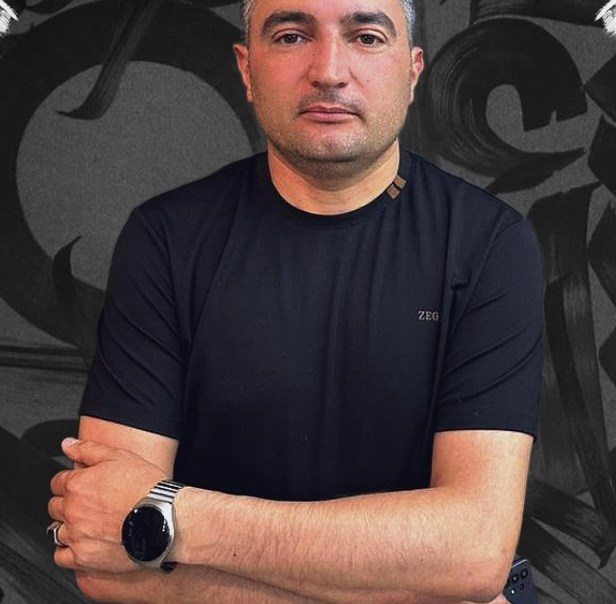
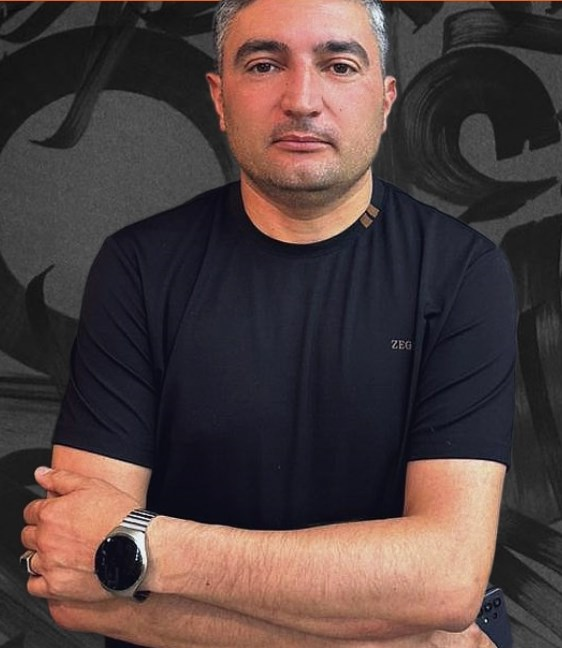
feat: VK photo pass — real gallery, barber duo, headline font, hero revert

diff --git a/design-c-dvizhenie/index.html b/design-c-dvizhenie/index.html
@@ -9,11 +9,11 @@
   <meta property="og:title" content="ЛЕЗВИЕ — Барбершоп в Ижевске">
   <meta property="og:description" content="Точность. Стиль. Характер. Запишись онлайн.">
   <meta property="og:type" content="website">
-  <meta property="og:image" content="img/hero-lezvie.jpg">
+  <meta property="og:image" content="../shared/img/hero-1.jpg">
   <title>ЛЕЗВИЕ — Барбершоп в Ижевске</title>
 
   <!-- Preload hero image -->
-  <link rel="preload" as="image" href="img/hero-lezvie.jpg" fetchpriority="high">
+  <link rel="preload" as="image" href="../shared/img/hero-1.jpg" fetchpriority="high">
 
   <!-- Google Fonts: Oswald + Lora -->
   <link rel="preconnect" href="https://fonts.googleapis.com">
@@ -85,7 +85,7 @@
   <!-- ====== HERO ====== -->
   <!-- PLACEHOLDER -->
   <section class="hero" id="hero">
-    <div class="hero__bg" style="background-image: url('img/hero-lezvie.jpg')"></div>
+    <div class="hero__bg" style="background-image: url('../shared/img/hero-1.jpg')"></div>
     <div class="hero__overlay"></div>
     <div class="hero__content">
       <h1 class="hero__tagline" id="heroTagline">
@@ -201,11 +201,11 @@
           </div>
           <span class="barbers__name">Мустафа</span>
         </div>
-        <!-- PLACEHOLDER: awaiting the 4th team photo from marketing -->
+        <!-- Duo from the IG story screenshot — swap for the original file when marketing sends it -->
         <div class="barbers__portrait" data-animate="curtain" data-delay="0.34" data-io="0.25">
           <div class="barbers__frame">
             <div class="barbers__img-wrap">
-              <img src="../shared/img/barber-4.jpg" alt="Команда ЛЕЗВИЕ" loading="lazy" decoding="async" width="600" height="800">
+              <img src="img/barber-duo.jpg" alt="Барберы ЛЕЗВИЕ — Барышникова 27" loading="lazy" decoding="async" width="437" height="467">
             </div>
           </div>
           <span class="barbers__name">Команда</span>

diff --git a/design-c-dvizhenie/js/gallery.js b/design-c-dvizhenie/js/gallery.js
@@ -16,14 +16,14 @@
 
   var STORAGE_KEY = 'lezvie-c-gallery';
 
-  /* Default gallery images */
+  /* Default gallery images — real shots from the shop's VK */
   var DEFAULT_IMAGES = [
-    { src: '../shared/img/gallery-1.jpg', alt: 'Галерея 1' },
-    { src: '../shared/img/gallery-2.jpg', alt: 'Галерея 2' },
-    { src: '../shared/img/gallery-3.jpg', alt: 'Галерея 3' },
-    { src: '../shared/img/gallery-4.jpg', alt: 'Галерея 4' },
-    { src: '../shared/img/gallery-5.jpg', alt: 'Галерея 5' },
-    { src: '../shared/img/gallery-6.jpg', alt: 'Галерея 6' }
+    { src: 'img/gallery-vk-1.jpg', alt: 'Фейд — чистая работа' },
+    { src: 'img/gallery-vk-2.jpg', alt: 'Классический фейд с бородой' },
+    { src: 'img/gallery-vk-3.jpg', alt: 'Помпадур — результат мастера' },
+    { src: 'img/gallery-vk-4.jpg', alt: 'Бритьё опасной бритвой' },
+    { src: 'img/gallery-vk-5.jpg', alt: 'Мастер за работой' },
+    { src: 'img/gallery-vk-6.jpg', alt: 'Медали чемпионата — команда ЛЕЗВИЕ' }
   ];
 
   /* Parallax speeds per item (varied for depth) */

diff --git a/design-c-dvizhenie/css/style.css b/design-c-dvizhenie/css/style.css
@@ -843,14 +843,13 @@ body.is-ready .hero__tagline .word {
 }
 
 .services__headline {
-  font-family: var(--font-body);
-  font-weight: 500;
-  font-style: italic;
-  font-size: clamp(1.6rem, 3.5vw, 2.4rem);
+  font-family: var(--font-heading);
+  font-weight: 600;
+  font-size: clamp(1.5rem, 3.2vw, 2.3rem);
   text-align: center;
   color: #F0ECE5;
   margin-bottom: 0.5rem;
-  letter-spacing: 0.005em;
+  letter-spacing: 0.04em;
   position: relative;
 }
 
